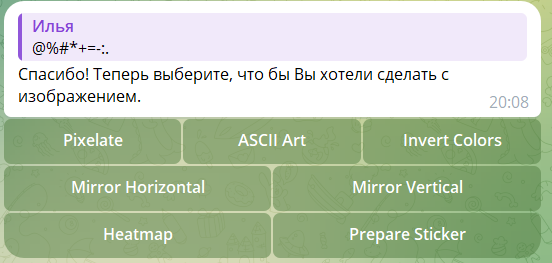
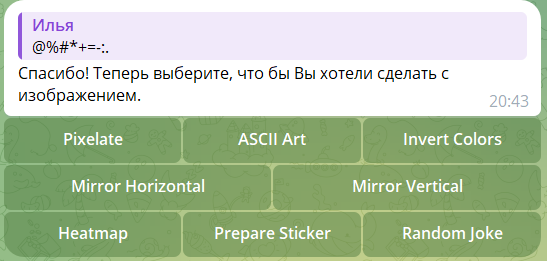
task6

diff --git a/bot.py b/bot.py
@@ -15,7 +15,6 @@
 - mirror_image: функция отражения изображения по горизонтали или вертикали
 - convert_to_heatmap: функция преобразования изображения в тепловую карту
 
-
 Обработчики событий:
 - @bot.message_handler(commands=['start', 'help']): для текстовых команд. Реагирует на команды /start и /help,
 отправляя приветственное сообщение.
@@ -39,6 +38,7 @@
 для обработки операций с файлами в памяти, таких как чтение и запись данных изображений;
 * import os: взаимодействие с операционной системой. В данном проекте используется для получения значения
 токена бота из переменной окружения;
+* import random: импортирует модуль random для случайного выбора шутки;
 * import telebot: импортирует библиотеку telebot, которая используется для взаимодействия с API Telegram Bot.
 Позволяет создавать ботов, которые могут отправлять и получать сообщения, обрабатывать команды и многое другое;
 * from PIL import Image: импортирует модуль Image из библиотеки Pillow. Этот модуль используется для открытия,
@@ -53,6 +53,7 @@
 """
 import io
 import os
+import random
 
 import telebot
 from PIL import Image, ImageOps
@@ -72,6 +73,18 @@ user_states = {}
 
 # Набор символов для создания ASCII-арта
 ASCII_CHARS = '@%#*+=-:. '
+
+# Список шуток
+JOKES = [
+    "Почему программисты не ходят в лес? Там слишком много багов!",
+    "Как программист варит кофе? Он пишет: 'COFFEE.EXE'.",
+    "Почему компьютер такой спокойный? У него есть много кеша!",
+    "Программистам не нужен будильник. У них есть исключения, которые их разбудят.",
+    "Почему программисты любят темную тему? Потому что светлая их ослепляет!",
+    "Что делает программист на пикнике? Дебажит баги на природе.",
+    "Почему кот-программист всегда остается спокойным? Потому что у него есть 9 потоков!",
+    "Почему программисты путают Хэллоуин и Рождество? Потому что 31 OCT = 25 DEC."
+]
 
 def resize_image(image, new_width=100):
     """
@@ -249,10 +262,11 @@ def get_options_keyboard():
     mirror_v_btn = types.InlineKeyboardButton("Mirror Vertical", callback_data="mirror_vertical")
     heatmap_btn = types.InlineKeyboardButton("Heatmap", callback_data="heatmap")
     sticker_btn = types.InlineKeyboardButton("Prepare Sticker", callback_data="sticker")
+    joke_btn = types.InlineKeyboardButton("Random Joke", callback_data="joke")
 
     keyboard.add(pixelate_btn, ascii_btn, invert_btn)
     keyboard.add(mirror_h_btn, mirror_v_btn)
-    keyboard.add(heatmap_btn, sticker_btn)
+    keyboard.add(heatmap_btn, sticker_btn, joke_btn)
     return keyboard
 
 @bot.callback_query_handler(func=lambda call: True)
@@ -281,6 +295,9 @@ def callback_query(call):
     elif call.data == "sticker":
         bot.answer_callback_query(call.id, "Подготовка изображения для стикера...")
         prepare_sticker_and_send(call.message)
+    elif call.data == 'joke':
+        bot.answer_callback_query(call.id, "Случайная шутка...")
+        random_joke_send(call.message)
 
 def pixelate_and_send(message):
     """
@@ -395,6 +412,14 @@ def prepare_sticker_and_send(message):
     sticker_image.save(output_stream, format="PNG")
     output_stream.seek(0)
     bot.send_document(message.chat.id, output_stream, visible_file_name="sticker.png")
+
+def random_joke_send(message):
+    """
+    Функция отправки случайной шутки.
+    Выбирает случайную шутку и отправляет эту шутку пользователю
+    """
+    joke = random.choice(JOKES)
+    bot.send_message(message.chat.id, joke)
 
 # Запуск бота
 bot.polling(none_stop=True)

diff --git a/README.md b/README.md
@@ -1,4 +1,4 @@
-Многофункциональный телеграм-бот. Данный бот сейчас умеет обрабатывать фотографии и делать ASCII-арт 
+Многофункциональный телеграм-бот. Данный бот умеет обрабатывать фотографии, делать ASCII-арт и многое другое 
 =====================================================================================
 ## Проект использует библиотеки telebot (для взаимодействия с Telegram API) и Pillow (для работы с изображениями) 
 
@@ -7,6 +7,7 @@
 для обработки операций с файлами в памяти, таких как чтение и запись данных изображений;
 * import os: взаимодействие с операционной системой. В данном проекте используется для получения значения
 токена бота из переменной окружения;
+* import random: импортирует модуль random для случайного выбора шутки;
 * import telebot: импортирует библиотеку telebot, которая используется для взаимодействия с API Telegram Bot.
 Позволяет создавать ботов, которые могут отправлять и получать сообщения, обрабатывать команды и многое другое;
 * from PIL import Image: импортирует модуль Image из библиотеки Pillow. Этот модуль используется для открытия,
@@ -47,6 +48,7 @@
 - mirror_and_send: отражение изображения
 - heatmap_and_send: преобразование изображения в тепловую карту
 - prepare_sticker_and_send: подготавливает изображение для загрузки в Telegram как стикер и отправляет его
+- random_joke_send: выбирает случайную шутку из списка и отправляет эту шутку пользователю.
 
 
 ### Инициализация бота:
@@ -89,3 +91,6 @@
 
 #### Пример преобразования изображения в стикер для загрузки в Telegram  
 <img src="images/img_11.PNG" alt="Отражение по вертикали" width="600">
+
+#### Пример запуска случайной шутки из списка (три варианта)  
+<img src="images/img_12.PNG" alt="Отражение по вертикали" width="600">
